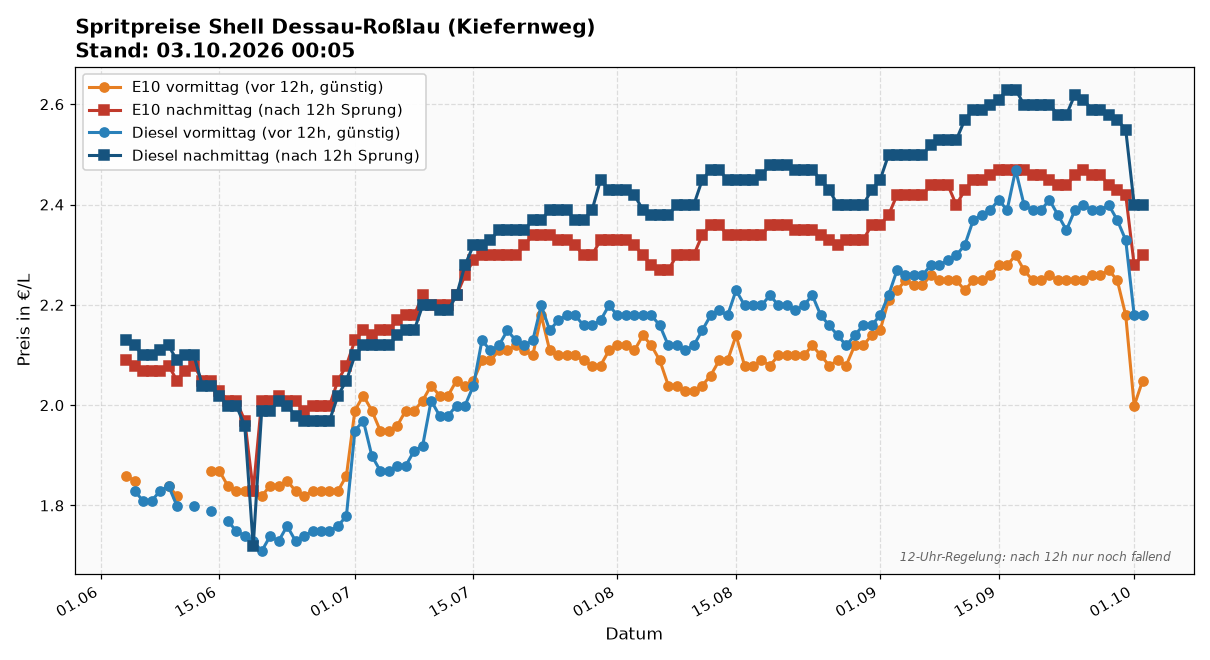
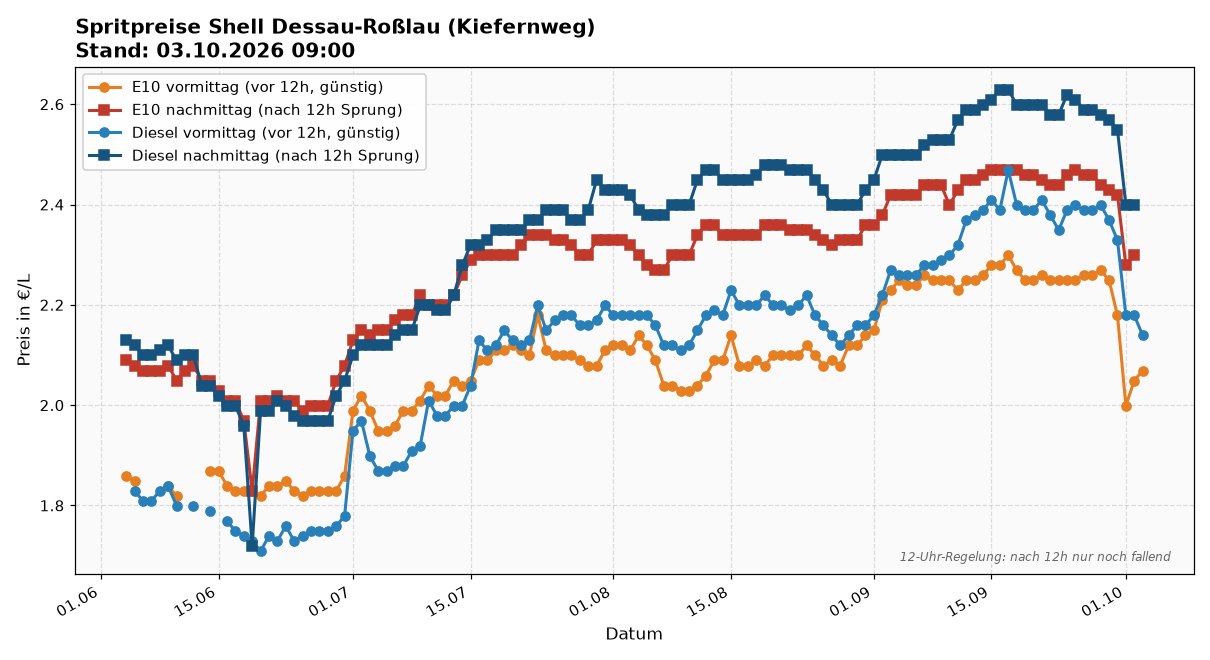
update: spritpreise 2026-10-03 09:00

diff --git a/index.html b/index.html
@@ -19,17 +19,17 @@
 </head>
 <body>
 <h1>🛢 Spritpreise Shell Dessau-Roßlau (Kiefernweg)</h1>
-<div class="sub">Source: Tankerkönig · Stand: 03.10.2026 00:05</div>
+<div class="sub">Source: Tankerkönig · Stand: 03.10.2026 09:00</div>
 
 <img src="latest.png" alt="Preisverlauf">
 
 <div class="latest">
   <strong>Heute (2026-10-03)</strong>
-  <div style="color:#888;font-style:italic;margin-bottom:0.5em;">Noch keine Messung heute — cron läuft 09:00 + 12:10.</div>
+  
   <table>
-    <tr><td>E10 vormittag</td><td class="price">— €</td></tr>
+    <tr><td>E10 vormittag</td><td class="price">2.069 €</td></tr>
     <tr><td>E10 nachmittag</td><td class="price">— €</td></tr>
-    <tr><td>Diesel vormittag</td><td class="price">— €</td></tr>
+    <tr><td>Diesel vormittag</td><td class="price">2.139 €</td></tr>
     <tr><td>Diesel nachmittag</td><td class="price">— €</td></tr>
   </table>
 </div>
